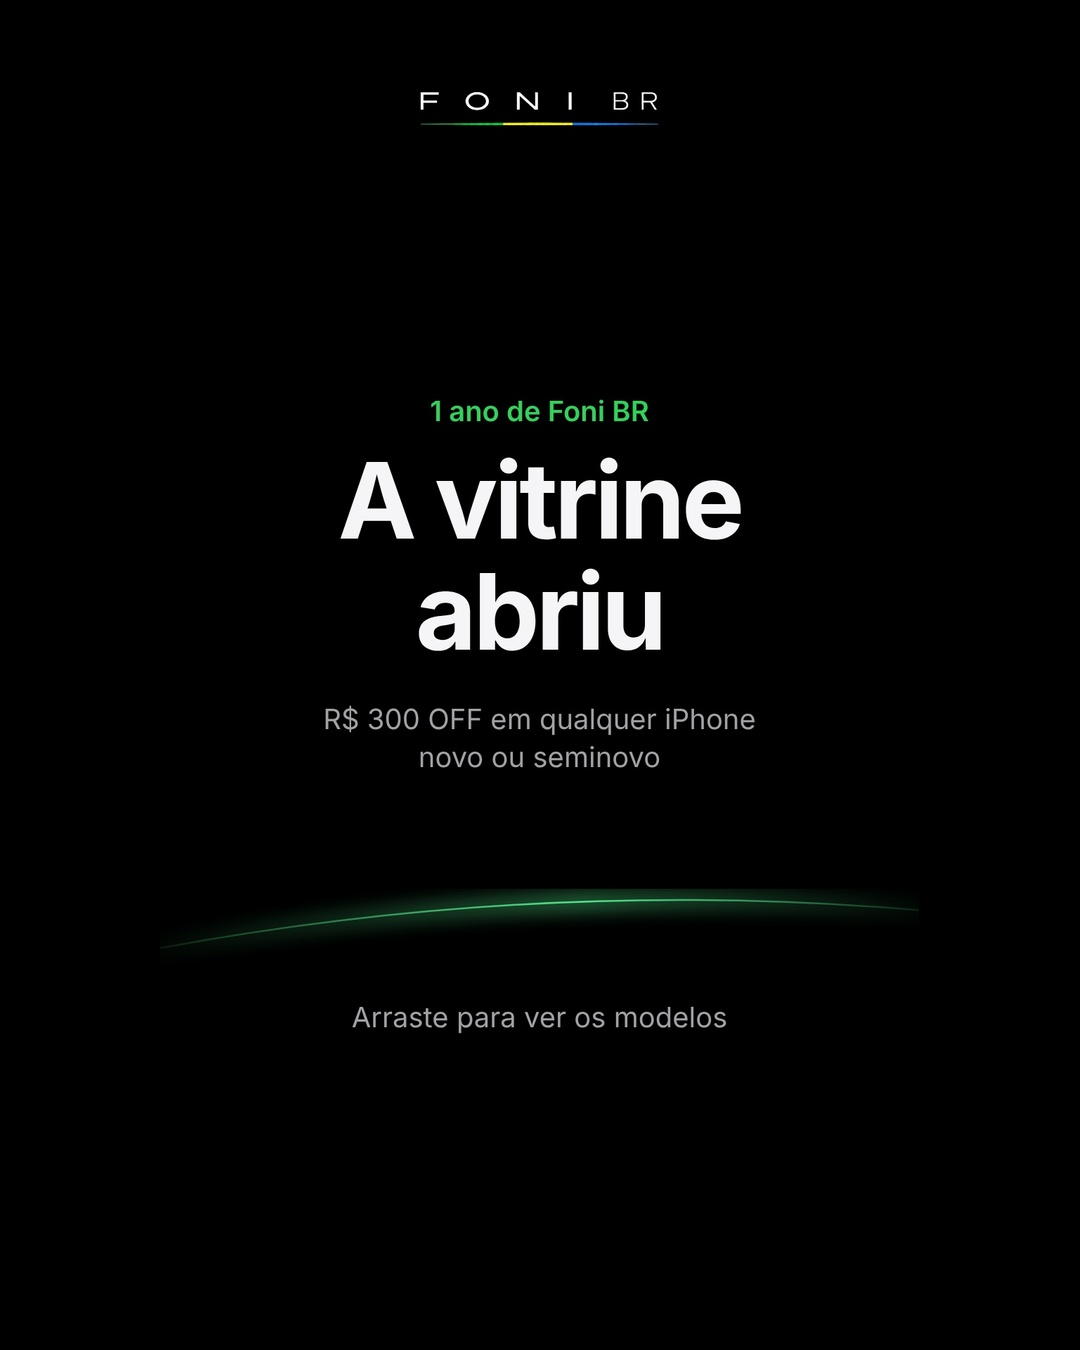
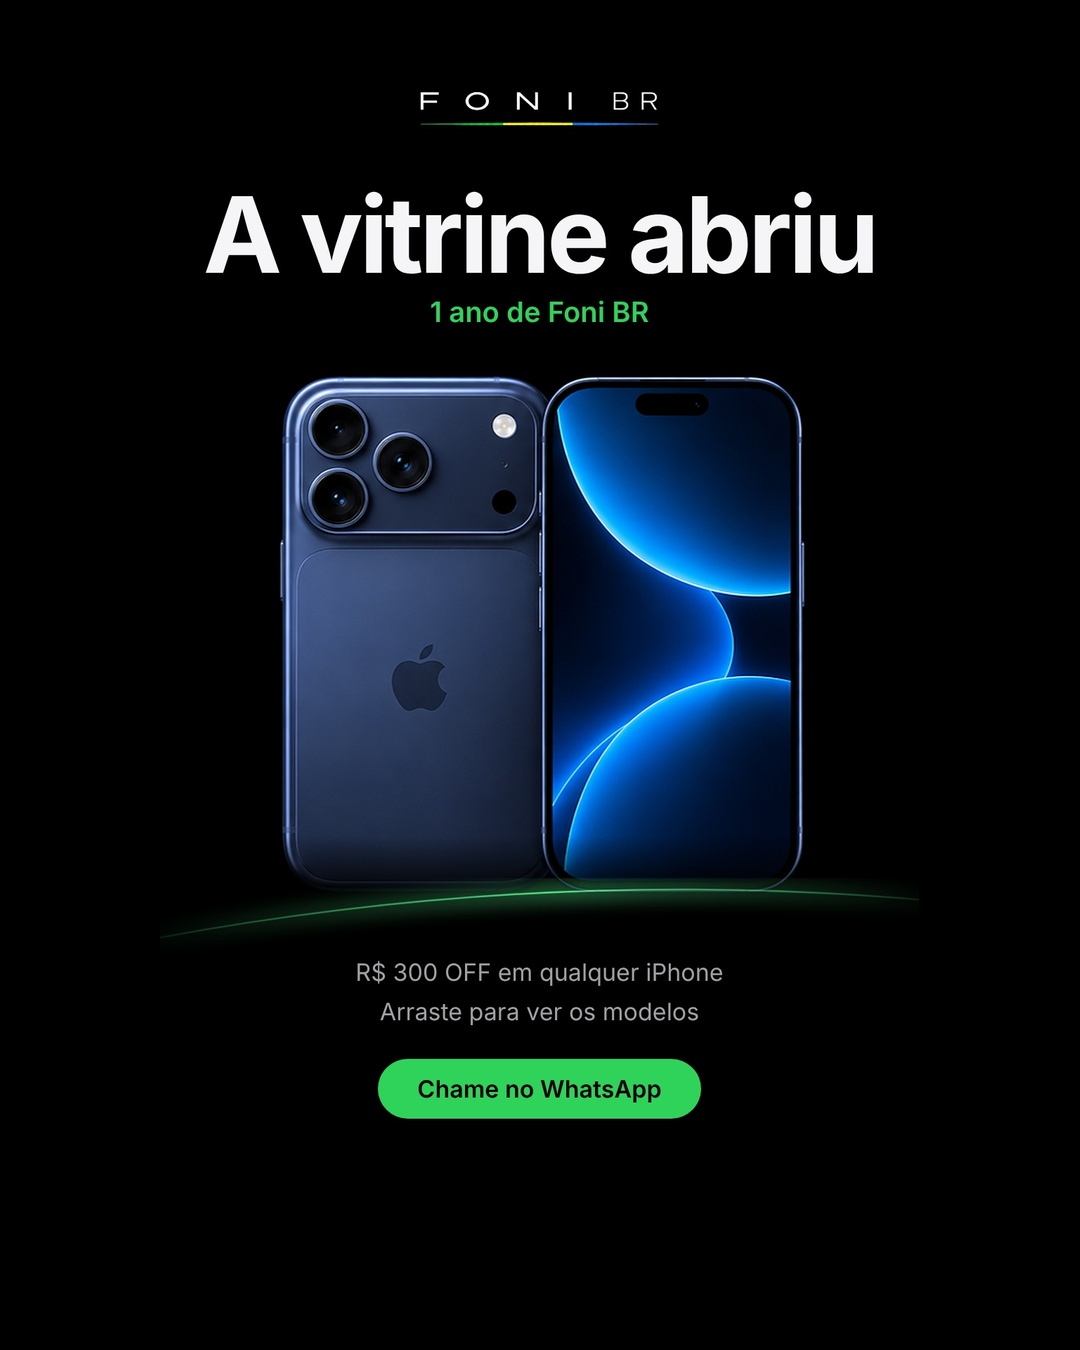
Vitrine 27/11: capa e fechamento na linguagem do anúncio oficial (aparelho no palco)
Claude-Session: https://claude.ai/code/session_019vjRdqEKRKmJkiD9USJGwJ

Changed region(s): [[0.2444, 0.28, 0.7944, 0.6844], [0.1833, 0.1244, 0.825, 0.2489], [0.3361, 0.7156, 0.6722, 0.84]]

diff --git a/ferramentas/anuncio_produto/vitrine_1ano.py b/ferramentas/anuncio_produto/vitrine_1ano.py
@@ -15,7 +15,8 @@ sys.path.insert(0, os.path.dirname(os.path.abspath(__file__)))
 from PIL import Image
 from fichas import FICHAS
 from campanha_1ano import gerar as gerar_story, POSTS, OFF
-from gerar import luz, LOGO_URI, H
+from gerar import luz, LOGO_URI, H, preparar_foto
+from fichas import PROD
 
 DIA = os.path.join(POSTS, "2026-11-27")
 MODELOS = ["iphone14", "iphone14pro", "iphone14promax", "iphone15", "iphone15pro", "iphone15promax",
@@ -52,25 +53,27 @@ def preco(ficha):
     return ("a partir de " + s) if "a partir" in f.get("de", "") else s
 
 
+def _heroi(titulo, verde, foto, linhas, esticar=1.0):
+    """Mesma linguagem do anúncio oficial: logo, título, linha verde, aparelho no palco, texto e botão."""
+    uri = preparar_foto(os.path.join(PROD, foto), 760, esticar)
+    sub = "".join(f'<p class="sub" style="font-size:34px;margin-top:10px">{t}</p>' for t in linhas)
+    return pagina('<style>.foto{position:absolute;top:520px;left:50%;transform:translateX(-50%);height:760px;'
+                  '-webkit-mask-image:linear-gradient(#000 88%,transparent)}</style>'
+                  f'<div style="position:absolute;top:255px;left:0;right:0"><h1>{titulo}</h1>'
+                  f'<div class="eb" style="margin-top:6px">{verde}</div></div>'
+                  f'<img class="foto" src="{uri}">'
+                  f'<div style="position:absolute;top:1350px;left:0;right:0">{sub}'
+                  '<div style="margin-top:44px"><span class="cta">Chame no WhatsApp</span></div></div>', linha_y=1285)
+
+
 def capa():
-    return pagina('<div style="position:absolute;top:560px;left:0;right:0">'
-                  '<div class="eb">1 ano de Foni BR</div><h1 style="margin-top:24px">A vitrine<br>abriu</h1>'
-                  '<p class="sub" style="margin-top:48px">R$ 300 OFF em qualquer iPhone<br>novo ou seminovo</p></div>'
-                  '<div style="position:absolute;top:1420px;left:0;right:0"><p class="sub">Arraste para ver os modelos</p></div>',
-                  linha_y=1300)
+    return _heroi("A vitrine abriu", "1 ano de Foni BR", "iphone-17-pro/iphone17pro_azul.png",
+                  ["R$ 300 OFF em qualquer iPhone", "Arraste para ver os modelos"])
 
 
 def fechamento():
-    itens = ["R$ 300 OFF em qualquer iPhone", "8 meses de garantia nos seminovos",
-             "Capa + película de brinde", "Cupom FONI1ANO no fonibr.com.br"]
-    lista = "".join(f'<p class="item">{t}</p>' for t in itens)
-    return pagina('<style>.item{font-size:40px;font-weight:600;padding:20px 0}.item+.item{border-top:1.5px solid #2C2C2E}'
-                  '.lista{width:760px;margin:70px auto 0}</style>'
-                  '<div style="position:absolute;top:430px;left:0;right:0">'
-                  '<h1 style="font-size:130px">Até 30/11</h1><p class="sub" style="margin-top:16px">ou enquanto durar o estoque</p>'
-                  f'<div class="lista">{lista}</div></div>'
-                  '<div style="position:absolute;top:1330px;left:0;right:0"><span class="cta">Chame no WhatsApp</span>'
-                  '<p class="note" style="margin-top:26px">Link na bio</p></div>', linha_y=1200)
+    return _heroi("R$ 300 OFF", "Até 30/11 ou enquanto durar o estoque", "iphone-18-pro/iphone18pro_glacier.png",
+                  ["Capa + película de brinde em toda compra", "No site, use o cupom FONI1ANO"], esticar=1.05)
 
 
 def tabela(h):
